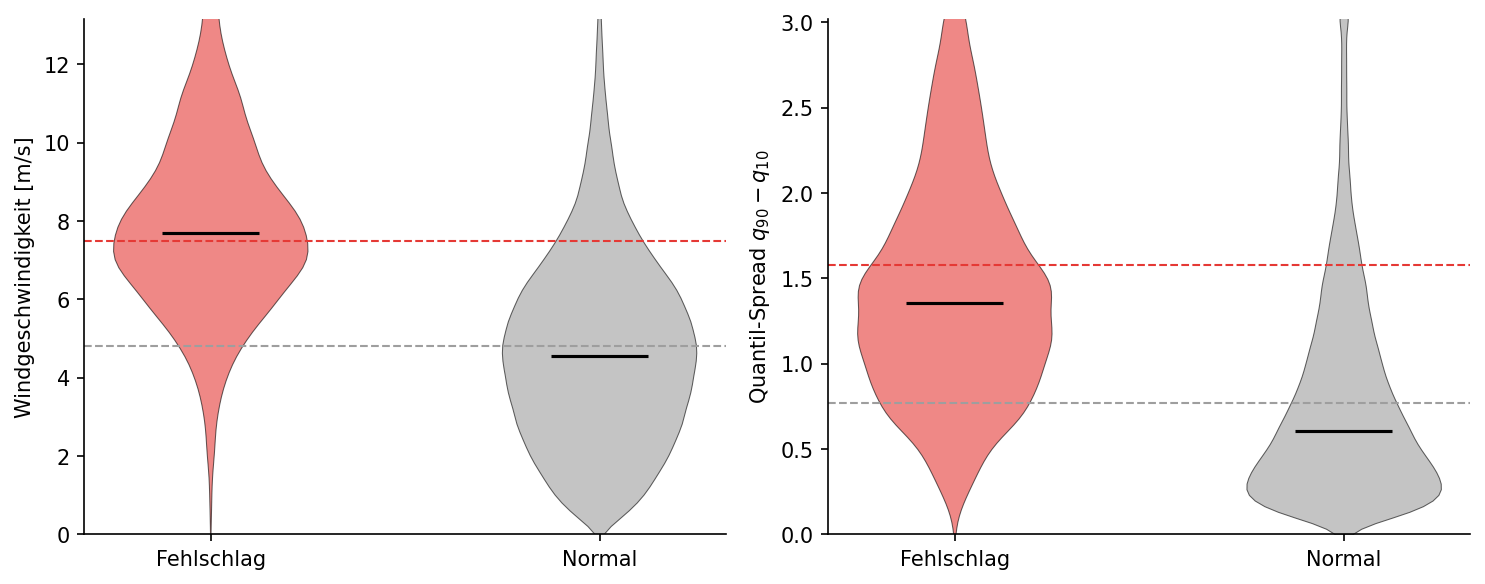
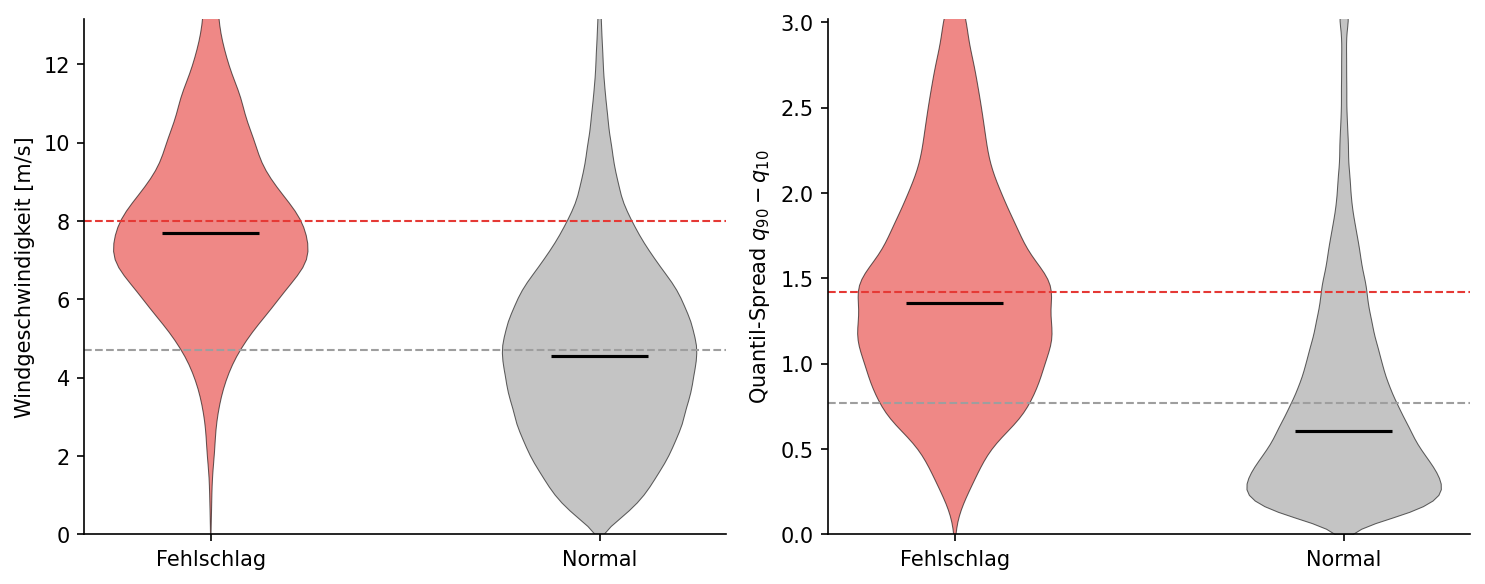
Update bidfailure_conditions reference lines to tau*=0.4571 values
Failure-vs-normal reference dashed lines were still at the old 0.5429
values (wind 7.5/4.8, spread 1.58/0.77); update to the pooled tau*=0.4571
values (wind 8.0/4.7, spread 1.42/0.77) so they match the violins.

Changed region(s): [[0.062, 0.5856, 0.4956, 0.6164]]

diff --git a/notebooks/regenerate_figures.py b/notebooks/regenerate_figures.py
@@ -572,8 +572,8 @@ def fig_bidfailure_conditions_04():
     """Fehlschlag vs. Normalbetrieb fuer Windgeschwindigkeit und Quantil-Spread (Violin)."""
     df = _bidfailure_frame()
     fig, axes = plt.subplots(1, 2, figsize=(10, 4))
-    panels = [("nwp_ws100", "Windgeschwindigkeit [m/s]", (7.5, 4.8)),
-              ("q_spread_qgb", "Quantil-Spread $q_{90}-q_{10}$", (1.58, 0.77))]
+    panels = [("nwp_ws100", "Windgeschwindigkeit [m/s]", (8.0, 4.7)),
+              ("q_spread_qgb", "Quantil-Spread $q_{90}-q_{10}$", (1.42, 0.77))]
     for ax, (col, ylabel, ref) in zip(axes, panels):
         fail_v = df.loc[df["fail"], col].dropna().values
         norm_v = df.loc[~df["fail"], col].dropna().values
